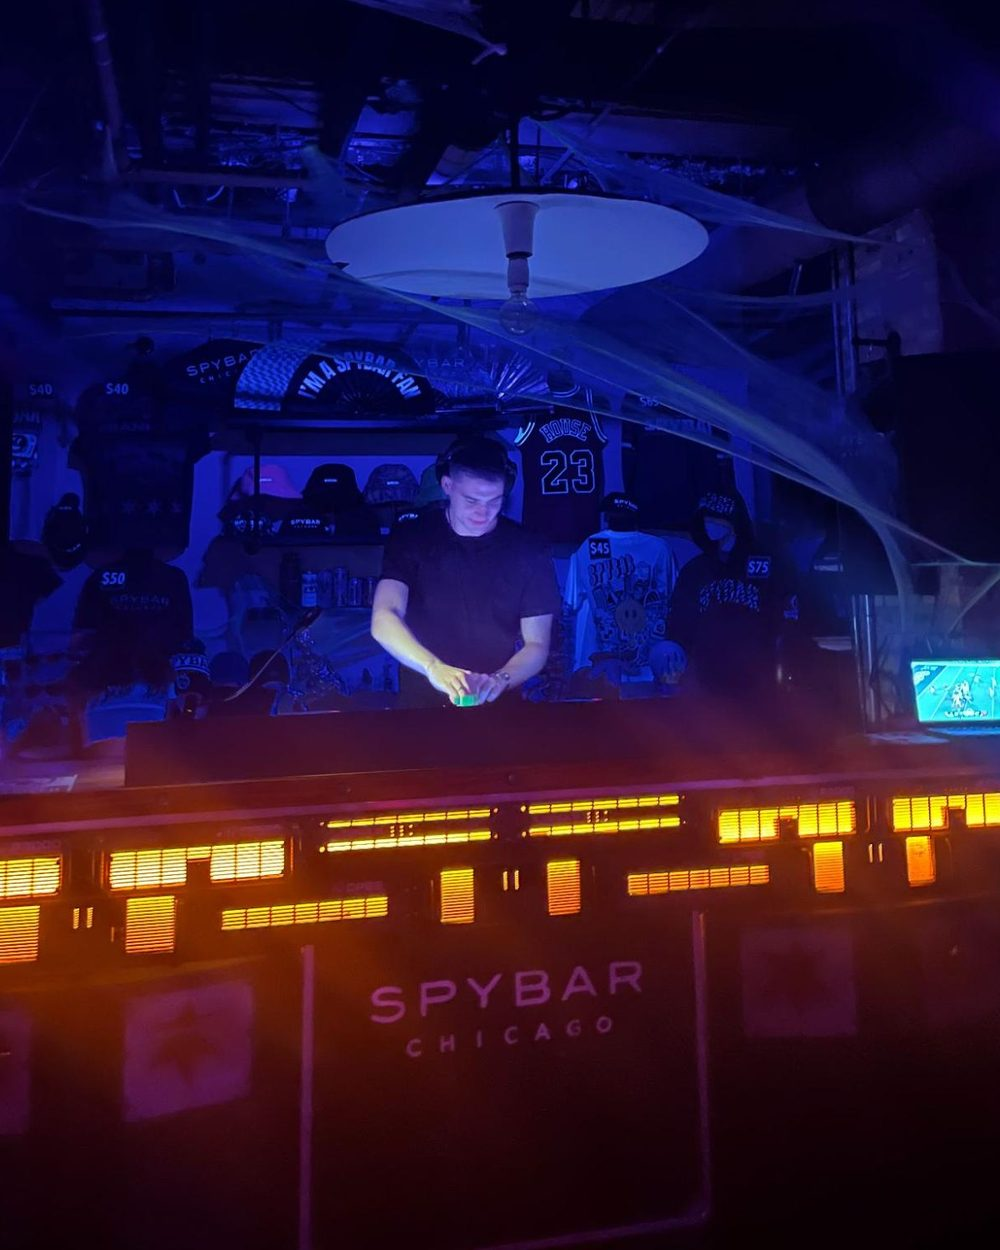
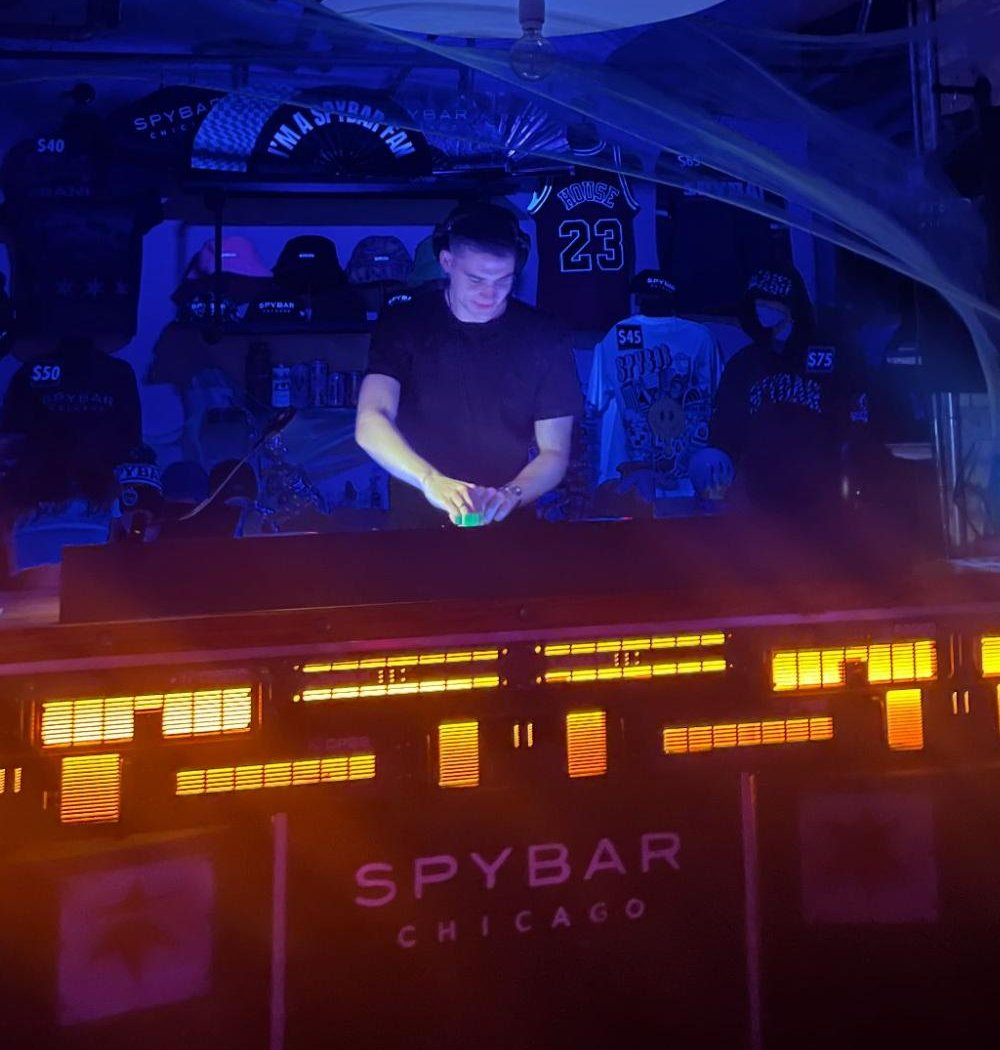
CDJ post: crop the gig photos shorter

diff --git a/_posts/2026-11-09-cdj-vs-controller.md b/_posts/2026-11-09-cdj-vs-controller.md
@@ -19,9 +19,9 @@ A few key things work differently, and some of the most useful features aren't o
 
 ## Pioneer XDJ-RX3
 
-![Me playing on a Pioneer XDJ-RX3 all-in-one in a bar's DJ booth](/images/blog/xdj-rx3-bar.jpg){: width="1000" height="1250"}
+![Me playing on a Pioneer XDJ-RX3 all-in-one in a bar's DJ booth](/images/blog/xdj-rx3-bar.jpg){: width="1000" height="1050"}
 
-![The Pioneer XDJ-RX3 from above](/images/blog/xdj-rx3.webp){: width="1300" height="840" style="width:64vh"}
+![The Pioneer XDJ-RX3 from above](/images/blog/xdj-rx3.webp){: width="1300" height="840" style="width:76vh"}
 
 ### Jog wheel screens
 
@@ -69,9 +69,9 @@ When you're ready to take the USB out, **hold the USB Stop button first.** That 
 
 ## CDJ-3000s and a DJM-900NXS2
 
-![Me playing on CDJ-3000s and a DJM-900NXS2 mixer at Spybar in Chicago](/images/blog/cdj-booth-spybar.jpg){: width="1000" height="1250"}
+![Me playing on CDJ-3000s and a DJM-900NXS2 mixer at Spybar in Chicago](/images/blog/cdj-booth-spybar.jpg){: width="1000" height="1050"}
 
-![Two Pioneer CDJ-3000s with a DJM-900NXS2 mixer between them, from above](/images/blog/cdj-djm-setup.webp){: width="1300" height="612" style="width:64vh"}
+![Two Pioneer CDJ-3000s with a DJM-900NXS2 mixer between them, from above](/images/blog/cdj-djm-setup.webp){: width="1300" height="612" style="width:76vh"}
 
 ### Linked waveforms
 
